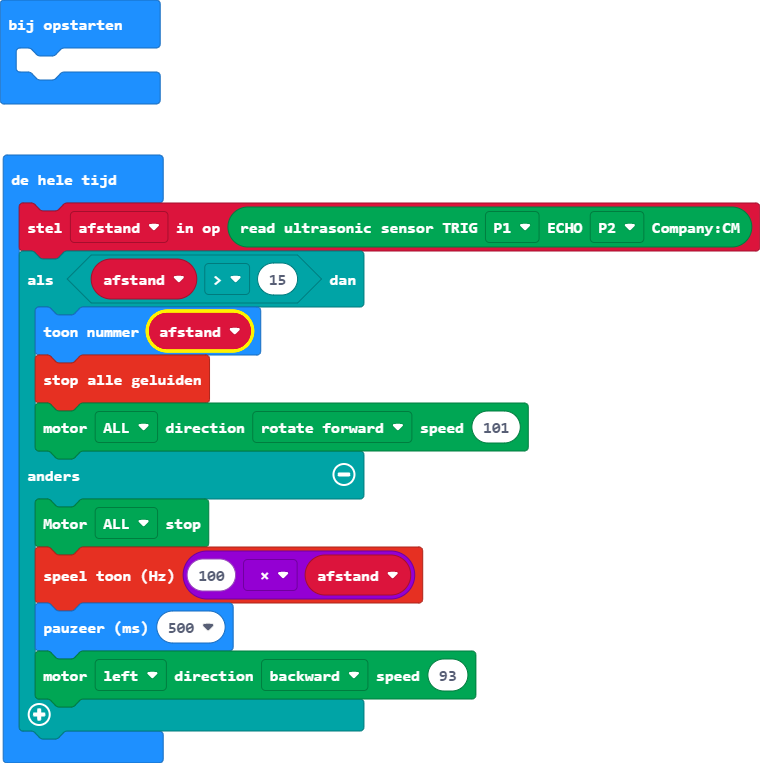
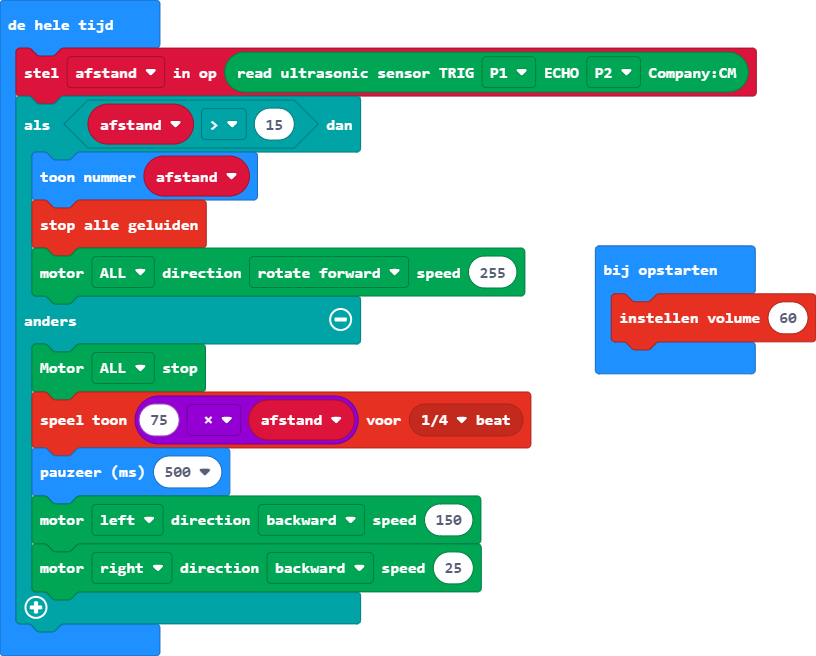
main.blocks, main.ts bijwerken

diff --git a/main.ts b/main.ts
@@ -1,14 +1,16 @@
 let afstand = 0
+music.setVolume(60)
 basic.forever(function () {
     afstand = DFRobotMaqueenPlus.ultraSonic(PIN.P1, PIN.P2)
     if (afstand > 15) {
         basic.showNumber(afstand)
         music.stopAllSounds()
-        DFRobotMaqueenPlus.mototRun(Motors.ALL, Dir.CW, 101)
+        DFRobotMaqueenPlus.mototRun(Motors.ALL, Dir.CW, 255)
     } else {
         DFRobotMaqueenPlus.mototStop(Motors.ALL)
-        music.ringTone(100 * afstand)
+        music.playTone(75 * afstand, music.beat(BeatFraction.Quarter))
         basic.pause(500)
-        DFRobotMaqueenPlus.mototRun(Motors.M1, Dir.CCW, 93)
+        DFRobotMaqueenPlus.mototRun(Motors.M1, Dir.CCW, 150)
+        DFRobotMaqueenPlus.mototRun(Motors.M2, Dir.CCW, 25)
     }
 })
